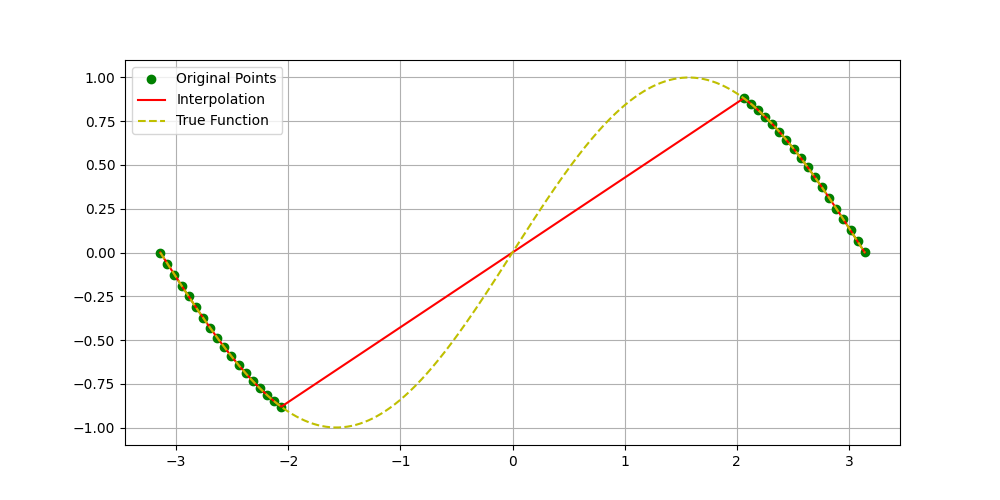
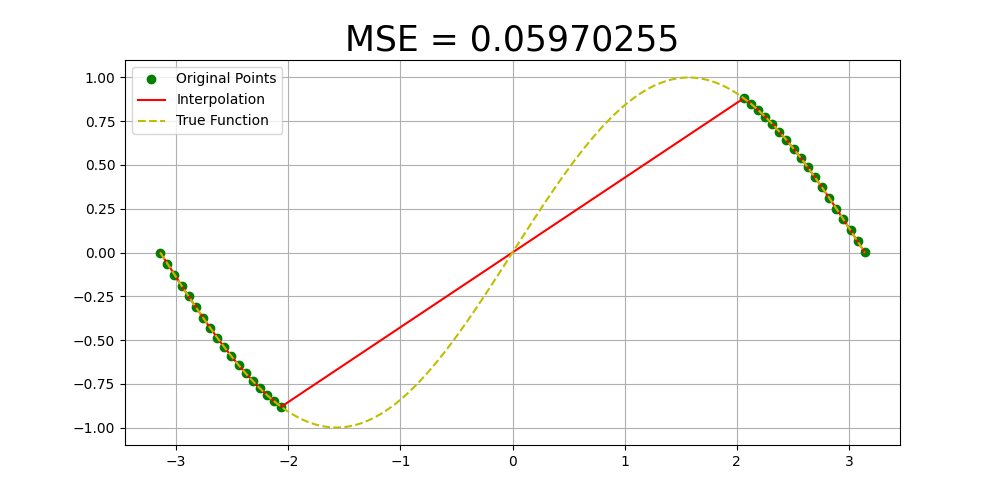
poprawki dla funkcji nie ciągłej

Changed region(s): [[0.341, 0.03, 0.682, 0.12]]

diff --git a/Sprawozdanie 2/zad1.py b/Sprawozdanie 2/zad1.py
@@ -120,12 +120,18 @@ x_int = np.linspace(x.min(), x.max(), 10*N)
 y_int = interpolated_function(x_int)
 y_true = np.sin(x_int)
 
-print(f"MSE: {metrics.mean_squared_error(y_pred=y_int, y_true=y_true):.8f}")
+
+mse = metrics.mean_squared_error(y_pred=y_int, y_true=y_true)
+
+print('MSE dla funkcji nieciągłej: ')
+print(mse)
 plt.plot(x, y, 'go', label='Original Points')
 plt.plot(x_int, y_int, 'r-', label='Interpolation')
 plt.plot(x_int, y_true, 'y--', label='True Function')
 plt.grid(True)
 plt.legend()
+plt.text(0.5, 1.05, f'MSE = {mse:.8f}', fontsize=25, horizontalalignment='center', verticalalignment='center', transform=plt.gca().transAxes)
+    
 
 folder = os.path.dirname(os.path.abspath(__file__))
 filename = 'without_some_points.png'
